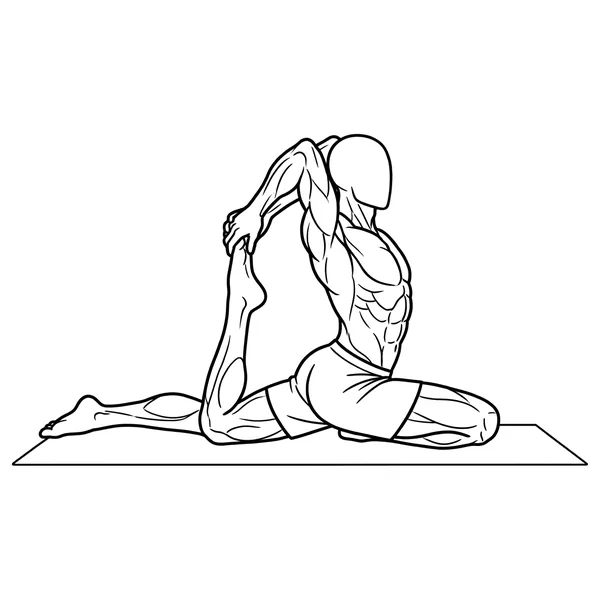
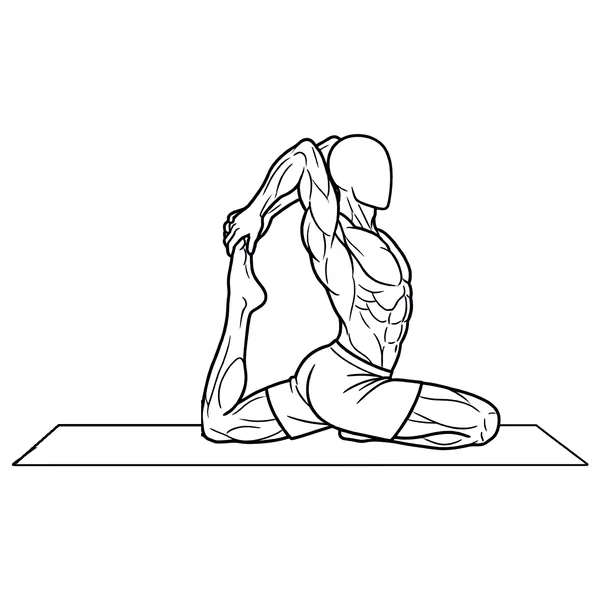
0.60.24: paloma real con el libro de modelo, cara lisa en puente por fases, flexiones en pica (manos clavadas) y triceps en maquina

Changed region(s): [[0.03, 0.21, 0.99, 0.78], [0.42, 0.48, 0.45, 0.51], [0.27, 0.63, 0.3, 0.66]]

diff --git a/web/sw.js b/web/sw.js
@@ -7,12 +7,12 @@
 // Solo se ocupa del CÓDIGO de la app. Los datos del usuario nunca pasan por
 // aquí: viven en el dispositivo (IndexedDB) y en su Google Drive.
 
-const VERSION = '0.60.23';
+const VERSION = '0.60.24';
 const CACHE = `entreno-${VERSION}`;
 // Las imágenes van en un almacén aparte que NO se borra al actualizar la app:
 // así se ven sin conexión aunque haya salido una versión nueva.
 // Si cambian las imágenes, se sube el número y los móviles bajan las nuevas.
-const CACHE_IMAGENES = 'entreno-imagenes-32';  // el mismo nombre en app.js (guardarImagenesParaSinConexion)
+const CACHE_IMAGENES = 'entreno-imagenes-33';  // el mismo nombre en app.js (guardarImagenesParaSinConexion)
 
 const ARCHIVOS = [
   './',

diff --git a/web/js/app.js b/web/js/app.js
@@ -236,7 +236,7 @@ async function guardarImagenesParaSinConexion() {
     const capas = Object.entries(MUSCULOS).flatMap(([clave, m]) => m.vistas.map((v) => archivoCapa(clave, v)));
     const cuerpo = ['imagenes/musculos/cuerpo-delante.svg', 'imagenes/musculos/cuerpo-detras.svg'];
     // El mismo nombre que CACHE_IMAGENES en sw.js: si no, el service worker lo borra.
-    const cache = await caches.open('entreno-imagenes-32');
+    const cache = await caches.open('entreno-imagenes-33');
     for (const ruta of [...cuerpo, ...capas, ...mios]) {
       if (!(await cache.match(ruta, { ignoreSearch: true }))) {
         const r = await fetch(ruta).catch(() => null);

diff --git a/web/js/version.js b/web/js/version.js
@@ -1,3 +1,3 @@
 // Versión del código de la app. Se sube en cada publicación y debe coincidir
 // con VERSION en sw.js, que es lo que hace que los móviles se actualicen.
-export const VERSION_APP = '0.60.23';
+export const VERSION_APP = '0.60.24';

diff --git a/herramientas/reencajar.py b/herramientas/reencajar.py
@@ -38,7 +38,7 @@ REENCAJAR = {
     "curl-invertido-completo": {"ia": True, "zona": (0.0, 0.9, 1.0, 1.0), "fijo_desde": 0.62},     # los pies
     "curl-martillo-completo": {"ia": True, "zona": (0.0, 0.9, 1.0, 1.0), "fijo_desde": 0.62},
     "pullover-en-polea-completo": {"ia": True, "zona": (0.0, 0.9, 1.0, 1.0), "fijo_desde": 0.62},
-    "flexiones-en-pica": {"ia": True, "zona": (0.0, 0.8, 0.3, 1.0)},           # las puntas de los pies
+    "flexiones-en-pica": {"ia": True, "zona": (0.6, 0.85, 1.0, 1.0)},          # 23-10, Dan: las manos clavadas
     "sentadilla-goblet": {"ia": True, "zona": (0.0, 0.92, 1.0, 1.0)},          # los pies
     "puente-por-fases": {"ia": True, "zona": (0.6, 0.75, 1.0, 1.0)},           # los pies
     "mountain-climbers": {"ia": True, "zona": (0.72, 0.55, 1.0, 0.97)},        # las manos y los brazos

diff --git a/imagenes-ia/cola.md b/imagenes-ia/cola.md
@@ -113,9 +113,9 @@ petición (el pez levantaba la cabeza; la goblet sale «de huevo», que lo decid
 
 ## 3. Con IA, posturas y ejercicios
 - [x] León: no es la postura (ejemplo del libro). Paloma real y sobre los hombros con apoyo: rehacer.
-      0.60.23: león y vela rehechos. Paloma real NO sale: Gemini devuelve la de antes o la pone en zancada (3 intentos);
-      probar con el libro de yoga como ejemplo o con ChatGPT.
-- [ ] (gemelo hecho en 0.60.23 desde cero; editando no baja el talón. Falta el sóleo, igual: desde cero) Gemelo y sóleo en pared: el talón de atrás apoyado del todo (y le extraña la diferencia de la rodilla).
+      0.60.23: león y vela rehechos. 0.60.24: paloma real con la página del libro (Literatura/Anatomia-del-Yoga…, pág. 128
+      del PDF) de modelo; Gemini pintó una pierna de más y se borró a mano.
+- [ ] (gemelo hecho en 0.60.23 desde cero; editando no baja el talón. Sóleo: 2 intentos desde cero sin éxito, rodilla de atrás recta) Gemelo y sóleo en pared: el talón de atrás apoyado del todo (y le extraña la diferencia de la rodilla).
 - [ ] Estiramiento de antebrazo: variante nueva de flexores. Leñador en polea: variante nueva hacia arriba.
 - [ ] CARs de hombro → cambiar por «rotaciones de hombro con palo» (buscar ejemplos).
 - [ ] Dominadas: el tamaño cambia (como el muñeco de antes). Supinas = las dominadas nuevas cambiando solo el
@@ -127,6 +127,7 @@ petición (el pez levantaba la cabeza; la goblet sale «de huevo», que lo decid
       banco y los pies de ahora. Puente de glúteo: rehacer. Puente por fases: cabeza y brazos clavados; cara.
       Flexiones en pica: manos fijas, cara plana. Face pull: la máquina cambia y el muñeco se parte.
       Sentadilla en multipower: pies clavados; quitar el listón fino de la derecha.
+      0.60.24: cara lisa en puente por fases, flexiones en pica (y manos clavadas) y tríceps en máquina.
 - [ ] Press de hombro a una mano y elevaciones laterales: piernas sobre piernas, empezar del original.
 ## 4. Máquinas con foto de ejemplo
 - [ ] Dominadas asistidas, fondos asistidos, gemelos en multipower, pájaros en contractora, máquina de glúteo,

diff --git a/CLAUDE.md b/CLAUDE.md
@@ -1206,4 +1206,7 @@ fase), tras probar la A.
 - 0.60.23: sección 3 empezada: león y vela (sobre los hombros con apoyo) rehechos, gemelo en pared con el talón
   apoyado (hecho desde cero: editando, Gemini no cambia los pies). La paloma real no sale. Gemini al tope a las 17:30.
   Almacén `entreno-imagenes-32`.
+- 0.60.24: con la segunda cuenta de Gemini (u/1, condiciones aceptadas con el visto bueno de Dan): paloma real con la
+  página del libro de Kaminoff de modelo (`Literatura/`, fuera de Git; la pierna de más se borró a mano), cara lisa en
+  puente por fases, flexiones en pica (encajadas ahora por las manos) y tríceps en máquina. Almacén `entreno-imagenes-33`.
 
